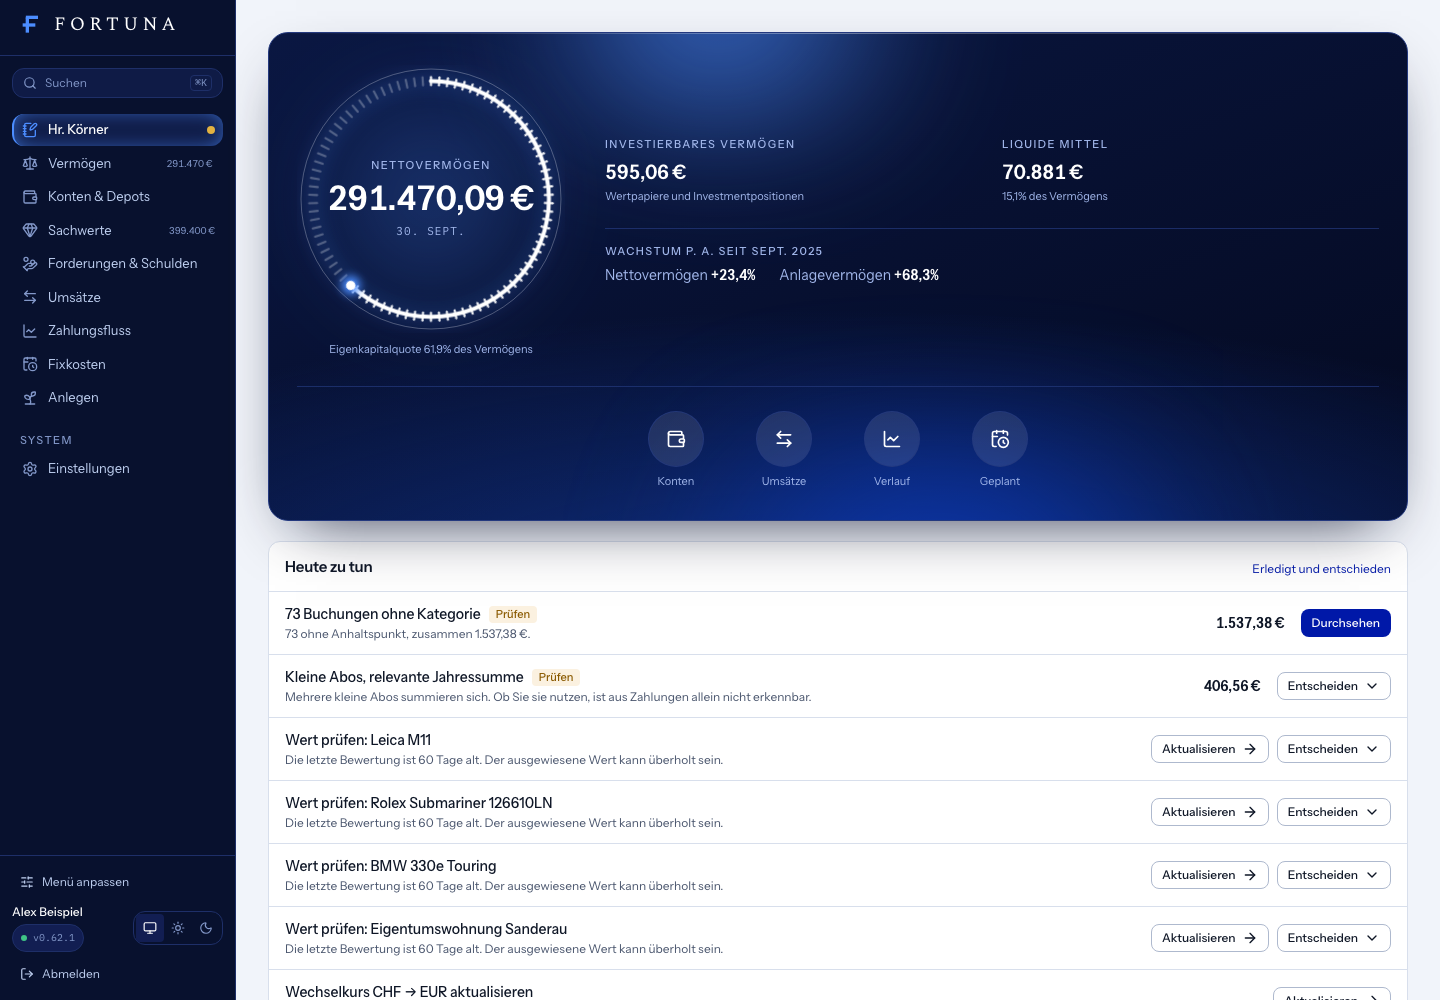
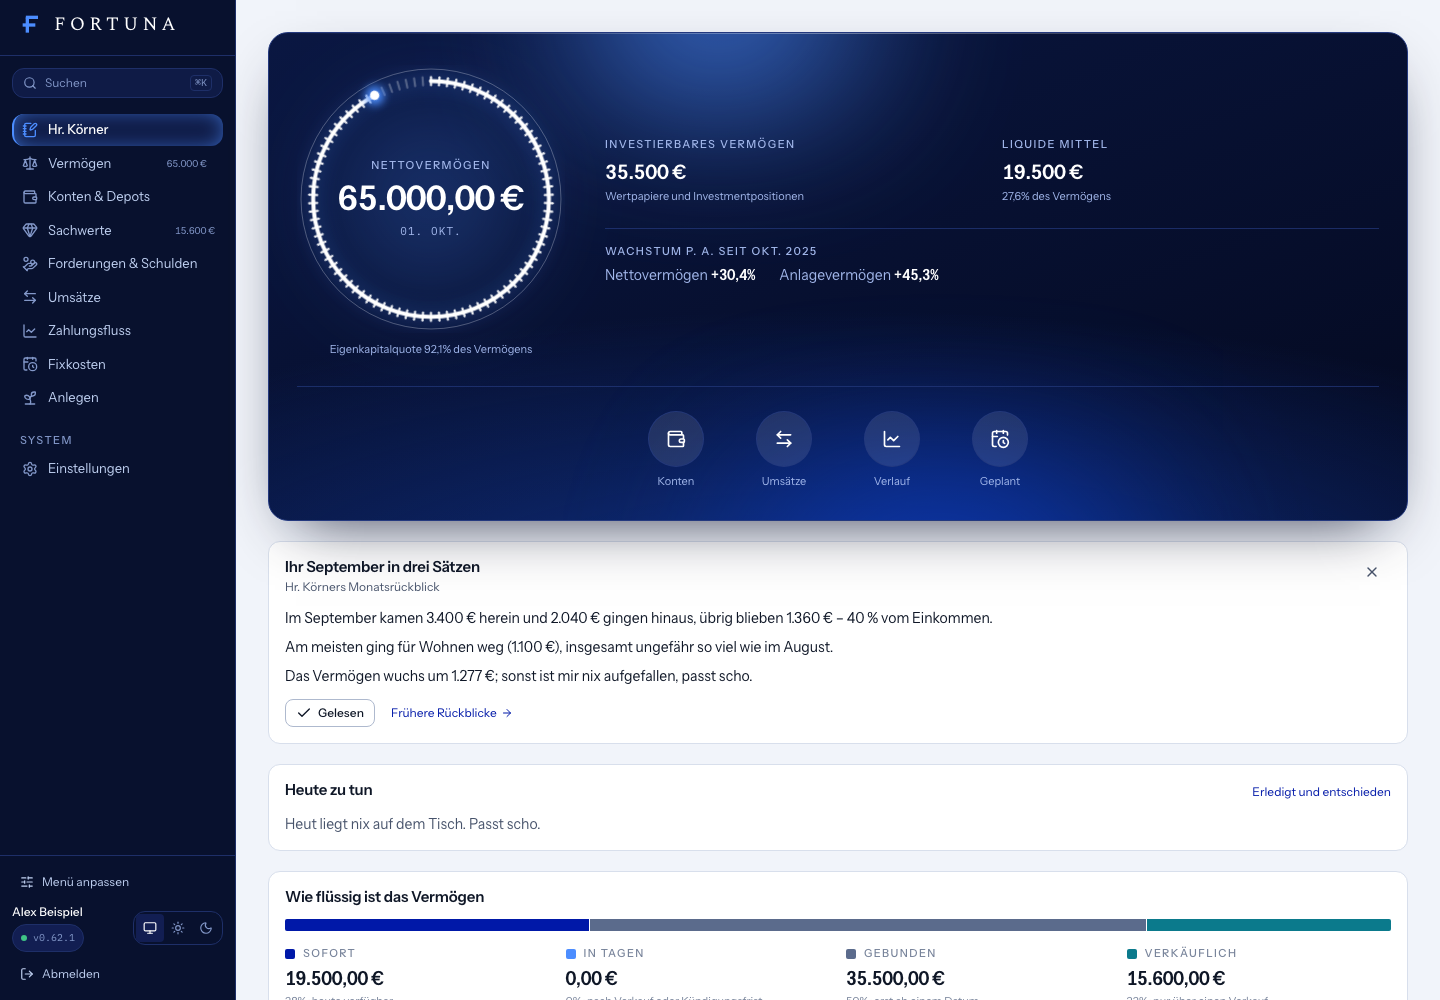
Use a EUR 65,000 fictional scenario for Fortuna screenshots (#1)
* docs: use a reproducible EUR 65,000 scenario for public previews

* test: measure transfer cashflow against the existing month baseline

diff --git a/scripts/seed-preview.ts b/scripts/seed-preview.ts
@@ -1,0 +1,263 @@
+/** Isolated, fictional screenshot scenario. Never reads or modifies production. */
+import { sql } from "drizzle-orm";
+import { addDays, addMonths, endOfMonth, todayIso } from "@/domain/dates";
+import { db, pool } from "@/server/db";
+import { assertLocalBootstrapTarget } from "@/server/db/local-bootstrap";
+import { createAccount, recordBalance } from "@/server/services/accounts";
+import { addValuation, createAsset } from "@/server/services/assets";
+import {
+	ensureDefaultCategories,
+	findCategoryBySlug,
+} from "@/server/services/categories";
+import {
+	createLiability,
+	recordLiabilityBalance,
+} from "@/server/services/liabilities";
+import { currentNetWorth } from "@/server/services/net-worth";
+import { ensureOwnerFromEnv } from "@/server/services/owner";
+import { runRecurringDetection } from "@/server/services/recurring";
+import {
+	type IncomingTransaction,
+	insertTransactions,
+} from "@/server/services/transactions";
+
+async function main() {
+	const target = process.env.DATABASE_URL ?? "";
+	assertLocalBootstrapTarget(target, process.env.NODE_ENV);
+	if (!new URL(target).pathname.startsWith("/fortuna_demo_"))
+		throw new Error("Use an isolated fortuna_demo_* database.");
+	const existing = await db.execute<{ occupied: boolean }>(sql`
+		select exists(select 1 from accounts) or exists(select 1 from assets)
+		or exists(select 1 from liabilities) or exists(select 1 from external_connections)
+		or exists(select 1 from bank_connections) as occupied
+	`);
+	if (existing.rows[0]?.occupied)
+		throw new Error("Refusing a nonempty demo database.");
+	await ensureOwnerFromEnv();
+	const owner = await db.query.user.findFirst();
+	if (!owner || owner.email !== process.env.OWNER_EMAIL)
+		throw new Error("Configure a fictional demo owner first.");
+	const userId = owner.id;
+	const today = todayIso();
+	const start = addMonths(`${today.slice(0, 7)}-01`, -12);
+	await ensureDefaultCategories(userId);
+	const category = async (slug: string) =>
+		(await findCategoryBySlug(userId, slug))?.id ?? null;
+	const transfer = await category("transfers");
+	const salary = await category("salary");
+	const checking = await createAccount(userId, {
+		name: "Girokonto",
+		institution: "Musterbank",
+		type: "current",
+		currency: "EUR",
+		openingBalanceMinor: 498_000,
+		openingBalanceDate: start,
+	});
+	const savings = await createAccount(userId, {
+		name: "Tagesgeld",
+		institution: "Musterbank",
+		type: "savings",
+		currency: "EUR",
+		openingBalanceMinor: 900_000,
+		openingBalanceDate: start,
+	});
+	const investment = await createAccount(userId, {
+		name: "Wertpapierdepot",
+		institution: "Demo-Depot",
+		type: "investment",
+		currency: "EUR",
+		openingBalanceMinor: 2_350_000,
+		openingBalanceDate: start,
+	});
+	const cash = await createAccount(userId, {
+		name: "Bargeld",
+		type: "cash",
+		currency: "EUR",
+		openingBalanceMinor: 30_000,
+		openingBalanceDate: start,
+	});
+	const card = await createAccount(userId, {
+		name: "Kreditkarte",
+		institution: "Musterbank",
+		type: "credit_card",
+		currency: "EUR",
+		openingBalanceMinor: -60_000,
+		openingBalanceDate: start,
+	});
+	const car = await createAsset(userId, {
+		name: "Kompaktwagen",
+		category: "vehicle",
+		currency: "EUR",
+		currentValueMinor: 1_750_000,
+		valuationDate: start,
+		acquisitionDate: start,
+		acquisitionCostMinor: 1_750_000,
+	});
+	const equipment = await createAsset(userId, {
+		name: "Computer und Kamera",
+		category: "collectible",
+		currency: "EUR",
+		currentValueMinor: 150_000,
+		valuationDate: start,
+		acquisitionDate: start,
+		acquisitionCostMinor: 150_000,
+	});
+	const loan = await createLiability(userId, {
+		name: "Autofinanzierung",
+		type: "vehicle_finance",
+		currency: "EUR",
+		originalAmountMinor: 650_000,
+		currentBalanceMinor: 650_000,
+		balanceDate: start,
+		startDate: start,
+		monthlyPaymentMinor: 12_500,
+		interestRateBps: 0,
+		linkedAssetId: car.id,
+	});
+	const expenses = [
+		["Miete", "rent-mortgage", 95_000],
+		["Lebensmittel", "groceries", 46_000],
+		["Strom und Heizung", "utilities", 11_000],
+		["Versicherung", "insurance", 8_000],
+		["Internet und Telefon", "internet-phone", 4_000],
+		["Mobilität", "public-transport", 16_000],
+		["Essen gehen", "restaurants", 12_000],
+		["Abonnements", "subscriptions", 4_500],
+		["Freizeit", "leisure", 7_500],
+	] as const;
+	for (let i = 0; i < 12; i++) {
+		const month = addMonths(start, i);
+		const date = endOfMonth(month);
+		const checkingRows: IncomingTransaction[] = [
+			{
+				bookingDate: addDays(month, 1),
+				amountMinor: 340_000,
+				currency: "EUR",
+				description: "Gehalt Musterbetrieb",
+				counterpartyName: "Musterbetrieb",
+				categoryId: salary,
+			},
+		];
+		for (const [index, [description, slug, amountMinor]] of expenses.entries())
+			checkingRows.push({
+				bookingDate: addDays(month, index + 2),
+				amountMinor: -amountMinor,
+				currency: "EUR",
+				description,
+				counterpartyName: description,
+				categoryId: await category(slug),
+			});
+		checkingRows.push(
+			{
+				bookingDate: date,
+				amountMinor: -50_000,
+				currency: "EUR",
+				description: "Umbuchung Tagesgeld",
+				categoryId: transfer,
+			},
+			{
+				bookingDate: date,
+				amountMinor: -80_000,
+				currency: "EUR",
+				description: "Umbuchung Depot",
+				categoryId: transfer,
+			},
+			{
+				bookingDate: date,
+				amountMinor: -12_500,
+				currency: "EUR",
+				description: "Darlehen: Tilgung",
+				categoryId: transfer,
+			},
+		);
+		await insertTransactions(userId, checking.id, checkingRows, {
+			importSource: "preview",
+		});
+		await insertTransactions(
+			userId,
+			savings.id,
+			[
+				{
+					bookingDate: date,
+					amountMinor: 50_000,
+					currency: "EUR",
+					description: "Umbuchung Tagesgeld",
+					categoryId: transfer,
+				},
+			],
+			{ importSource: "preview" },
+		);
+		await insertTransactions(
+			userId,
+			investment.id,
+			[
+				{
+					bookingDate: date,
+					amountMinor: 80_000,
+					currency: "EUR",
+					description: "Umbuchung Depot",
+					categoryId: transfer,
+				},
+			],
+			{ importSource: "preview" },
+		);
+		await recordBalance(userId, {
+			accountId: investment.id,
+			date,
+			balanceMinor: 2_350_000 + (i + 1) * 100_000,
+			source: "manual",
+		});
+		await addValuation(userId, {
+			assetId: car.id,
+			date,
+			valueMinor: 1_750_000 - (i + 1) * 25_000,
+			source: "manual",
+		});
+		await addValuation(userId, {
+			assetId: equipment.id,
+			date,
+			valueMinor: 150_000 - Math.round(((i + 1) * 40_000) / 12),
+			source: "manual",
+		});
+		await recordLiabilityBalance(userId, {
+			liabilityId: loan.id,
+			date,
+			balanceMinor: 650_000 - (i + 1) * 12_500,
+		});
+	}
+	await recordBalance(userId, {
+		accountId: cash.id,
+		date: today,
+		balanceMinor: 30_000,
+		source: "manual",
+	});
+	await recordBalance(userId, {
+		accountId: card.id,
+		date: today,
+		balanceMinor: -60_000,
+		source: "manual",
+	});
+	await runRecurringDetection(userId);
+	const snapshot = await currentNetWorth(userId);
+	if (snapshot.netWorthMinor !== 6_500_000)
+		throw new Error("Preview totals do not reconcile to EUR 65,000.");
+	console.info(
+		JSON.stringify({
+			preview: "fictional",
+			cashMinor: snapshot.cashMinor,
+			investmentsMinor: snapshot.investmentsMinor,
+			physicalMinor: snapshot.physicalMinor,
+			liabilitiesMinor: snapshot.totalLiabilitiesMinor,
+			netWorthMinor: snapshot.netWorthMinor,
+		}),
+	);
+}
+
+main()
+	.catch(() => {
+		console.error(
+			"Preview seeding failed. Check the isolated demo target, empty register, and owner settings.",
+		);
+		process.exitCode = 1;
+	})
+	.finally(() => pool.end());

diff --git a/tests/integration/finance-flows.test.ts b/tests/integration/finance-flows.test.ts
@@ -1082,6 +1082,11 @@ d("financial flows against PostgreSQL", () => {
 
 	it("links internal transfers and excludes them from cashflow", async () => {
 		const date = addMonths(today, -2);
+		// This suite shares an owner across fixtures. Calendar months can contain
+		// earlier bookings; only the new transfer's effect must be zero.
+		const before = await cashflowReport(userId, { months: 6 });
+		const beforeMonth = before.months.find((m) => m.month === date.slice(0, 7));
+		expect(beforeMonth).toBeDefined();
 		await insertTransactions(
 			userId,
 			giroId,
@@ -1118,8 +1123,9 @@ d("financial flows against PostgreSQL", () => {
 		expect(out?.transferGroupId).toBe(inn?.transferGroupId);
 		const report = await cashflowReport(userId, { months: 6 });
 		const month = report.months.find((m) => m.month === date.slice(0, 7));
-		expect(month?.incomeMinor).toBe(0);
-		expect(month?.expenseMinor).toBe(0);
+		expect(month).toBeDefined();
+		expect(month?.incomeMinor).toBe(beforeMonth?.incomeMinor);
+		expect(month?.expenseMinor).toBe(beforeMonth?.expenseMinor);
 	});
 
 	it("manual categorisation survives rule re-application and can spawn a rule", async () => {

diff --git a/docs/screenshot-preview.md b/docs/screenshot-preview.md
@@ -1,0 +1,40 @@
+# Fictional EUR 65,000 preview
+
+The README screenshots use the current application at 1440 x 1000, with reduced
+motion and a disposable local PostgreSQL database. They are not edited mockups,
+production captures, or statements about the author's finances.
+
+The scenario reconciles to:
+
+- Cash: EUR 19,500.
+- Investments: EUR 35,500.
+- Physical assets: EUR 15,600.
+- Liabilities: EUR 5,600, including a EUR 600 credit-card balance.
+- Net worth: EUR 65,000.
+
+`scripts/seed-preview.ts` supplies twelve full months of fictional income,
+expenses, transfers, investment balance observations, asset valuations, and
+loan repayments. It uses the normal domain services and asserts the resulting
+net worth exactly, in integer cents. No account identifiers, documents, or
+provider credentials are copied from production.
+
+Create an isolated local database named `fortuna_demo_<suffix>`. Set its
+`DATABASE_URL`, local `BETTER_AUTH_SECRET`, local `BETTER_AUTH_URL`, and fictional
+`OWNER_EMAIL`, `OWNER_PASSWORD`, and `OWNER_NAME`, then run:
+
+```sh
+bun run db:bootstrap:local
+bun run db:seed:preview
+bun run dev
+```
+
+The preview seed refuses remote hosts, production mode, non-demo database names,
+and existing accounts, assets, debts, or external connections. It never clears
+existing records. Use a disposable database, never a production `.env`, and do
+not connect a real bank or broker. If an interrupted seed left partial data,
+create another empty demo database instead of disabling the guard.
+
+Sign in as the fictional owner and capture `/` and `/net-worth` once their data
+and fonts have loaded. Check that both views show EUR 65,000 and that the assets,
+liabilities, and history remain consistent. The old brand mockups are unrelated
+to this scenario and are not used as product screenshots.

diff --git a/README.md b/README.md
@@ -33,10 +33,13 @@ boundary. Deletes, external side effects and bank payments are not exposed. Its 
 ## Current application screens
 
 These are real captures of Fortuna 0.62.1 from an isolated local database seeded
-with fictional financial data. They do not show the author's balances, accounts,
+with fictional financial data totalling EUR 65,000 in net worth. They do not show the author's balances, accounts,
 assets, transactions, or investment performance. No bank or broker was connected.
 The older images under `fortuna-brand/mockups` are design concepts, not these
 screens. See [the publication boundary](docs/publication.md).
+
+The screenshot scenario is reproducible with `bun run db:seed:preview` in a
+fresh local `fortuna_demo_*` database. See [the preview setup](docs/screenshot-preview.md).
 
 ![Fortuna's current financial desk with fictional demo data](docs/screenshots/desk.png)
 

diff --git a/AGENTS.md b/AGENTS.md
@@ -807,6 +807,9 @@ Biome, Vitest. Deployed on Railway via the Dockerfile.
   checks the ledger on resume, and refuses remote or production targets.
   Demo seeding is limited to local `fortuna_dev`, `fortuna_test`, and
   `fortuna_demo_*` names; never import owner data for public screenshots.
+  The README screenshots use `bun run db:seed:preview` in an empty local
+  `fortuna_demo_*` database and reconcile to EUR 65,000. Capture the real pages,
+  never edit displayed totals. Reproduction is in `docs/screenshot-preview.md`.
 - `bank_transaction_code.description` is sometimes prose and sometimes the bare
   ISO domain code: the Sparda answers "PMNT". Never show a four-capital code as
   a booking text — it makes the row unfilable by the owner and by Hr. Körner.
